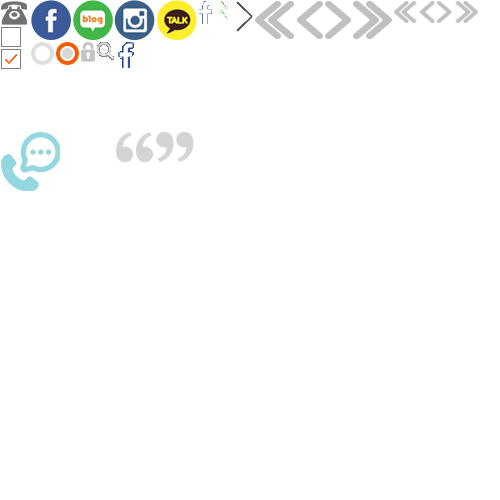
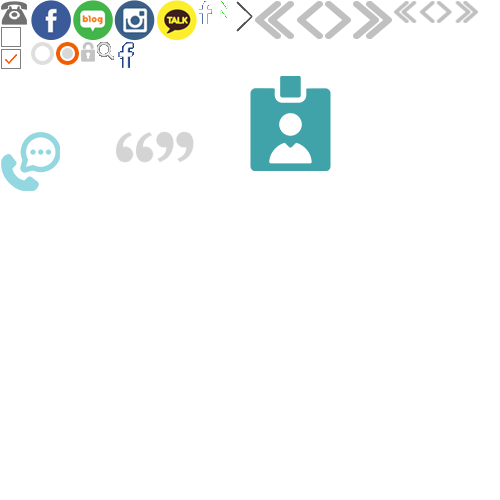
회원가입 완료

Changed region(s): [[0.48, 0.15, 0.66, 0.36]]

diff --git a/joinCom.html b/joinCom.html
@@ -1,0 +1,127 @@
+<!DOCTYPE html>
+<html lang="ko">
+<head>
+<title>SKINLUX</title>
+<meta charset="utf-8">
+<meta content="width=device-width, initial-scale=1.0, minimum-scale=1.0, maximum-scale=1.0, user-scalable=yes, target-densitydpi=medium-dpi" name="viewport">
+<meta http-equiv="X-UA-Compatible" content="IE=Edge">
+<link rel="stylesheet" type="text/css" href="css/default.css">
+<link rel="stylesheet" type="text/css" href="css/common.css">
+<link rel="stylesheet" type="text/css" href="css/contents.css">
+<script type="text/javascript" src="js/jquery-1.11.1.min.js"></script>
+<script type="text/javascript" src="js/jquery-ui.min.js"></script>
+<script type="text/javascript" src="js/ui.js"></script>
+<!--[if lt IE 9]>
+    <script src="js/html5shiv.min.js"></script>
+<![endif]-->
+</head>
+
+<body>
+	<ul class="skipNavi">
+		<li><a href="#container">본문 바로가기</a></li>
+		<li><a href="#gnb">메뉴 바로가기</a></li>
+	</ul>
+	<header id="header">
+		<div class="headTop">
+			<h1><a href="/">SKINLUX</a></h1>
+			<button type="button" class="btnMobNav"><span>메뉴 열기</span></button>
+		</div>
+		<div id="gnb">
+			<div class="headUtil">
+				<nav>
+					<a href="tel:025470175" class="phone">전화상담 <span>02)547.0175</span></a>
+					<span>
+						<a href="#" class="login">로그인</a>
+						<a href="#" class="logout">로그아웃</a>
+						<a href="#" class="join">회원가입</a>
+						<a href="#" class="info">병원소개</a>
+						<a href="#" class="map">오시는길</a>
+					</span>
+					<p class="tip">회원가입 후 로그인을 하시면<br>치료사례/후기를 보실 수 있습니다.</p>
+				</nav>
+			</div>
+			<nav class="gnbMenu">
+				<ul>
+					<li><a href="#">SKIN 클리닉</a>
+						<div class="depth2 type2">
+							<ul>
+								<li><a href="#">지루성 피부염</a></li>
+								<li><a href="#">스테로이드 부작용</a></li>
+								<li><a href="#">여드름(안면/등/가슴)</a></li>
+								<li><a href="#">아토피/건선</a></li>
+								<li><a href="#">안면홍조/레이저 부작용</a></li>
+								<li><a href="#">매선</a></li>
+							</ul>
+						</div>
+					</li>
+					<li><a href="#">DIET 클리닉</a>
+						<div class="depth2">
+							<ul>
+								<li><a href="#">비만</a></li>
+								<li><a href="#">다이어트약</a></li>
+							</ul>
+						</div>
+					</li>
+					<li><a href="#" class="non2depth">치료사례/후기</a></li>
+					<li><a href="#" class="non2depth">상담 및 예약</a></li>
+					<li><a href="#">병원소식</a>
+						<div class="depth2">
+							<ul>
+								<li><a href="#">공지사항</a></li>
+								<li><a href="#">스타방문</a></li>
+								<li><a href="#">언론보도</a></li>
+								<li><a href="#">이벤트 </a></li>
+							</ul>
+						</div>
+					</li>
+				</ul>
+			</nav>
+			<button type="button" class="btnClose"><span>메뉴 닫기</span></button>
+		</div>
+	</header>
+	<div class="location">
+		<p><a href="/">Home</a> &gt; <span>회원가입</span></p>
+	</div>
+
+	<div id="container">
+		<section class="content">
+			<h1 class="pageTitle2">회원가입 완료</h1>
+			<div class="joinCom">
+                <p class="txt1">홈페이지 <strong>회원가입이 완료</strong>되었습니다.</p>
+                <p class="txt2">로그인하시면 더 많은 정보와 치료후기를 확인하실 수 있습니다.</p>
+                <div class="btn"><button type="button" class="btnType1">로그인</button></div>
+			</div>
+		</section>
+	</div>
+
+	<footer id="footer">
+		<section>
+			<h1>SKINLUX</h1>
+			<nav>
+				<span class="privacy">
+					<a href="#">이용약관</a>
+					<a href="#">개인정보 취급방침</a>
+				</span>
+				<span class="sns">
+					<a href="#" class="facebook">페이스북</a>
+					<a href="#" class="naver">네이버블로그</a>
+					<a href="#" class="insta">인스타그램</a>
+					<a href="#" class="kakao">카카오톡</a>
+				</span>
+			</nav>
+			<p class="hospInfo">
+				<span>업체명 : 스킨룩스 한의원</span>
+				<span>대표이사 : 선우유정</span>
+				<span>서울시 강남구 논현로 826(신사동, 2층)</span>
+				<span>02-542-0175</span>
+				<span>fax : 02-547-6275</span>
+				<span>사업자 등록번호 : 4565121545212</span>
+				<span>통신판매업신고 : 41512124451</span>
+				<span>개인정보관리 책임자 : 선우유정 sdfsdf@sdfsdf.com</span>
+				<small>(c) SKINLUX all right reserved.</small>
+			</p>
+		</section>
+	</footer>
+
+</body>
+</html>

diff --git a/clinic.html b/clinic.html
@@ -234,9 +234,9 @@
                     <img src="images/img_clinic4_2_mo.jpg" alt="" class="mo">
                 </section>
                 <section id="clinic5">
-                    <h1 class="hidden">스테로이드 부작용</h1>
-                    <img src="images/img_clinic1_1.jpg" alt="" class="pc">
-                    <img src="images/img_clinic1_1_mo.jpg" alt="" class="mo">
+                    <h1 class="hidden">안면홍조/레이저부작용</h1>
+                    <img src="images/img_clinic5_1.jpg" alt="" class="pc">
+                    <img src="images/img_clinic5_1_mo.jpg" alt="" class="mo">
                     <ul class="clinicSlide">
                         <li>
                             <a href="#">
@@ -263,41 +263,13 @@
                             </a>
                         </li>
                     </ul>
-                    <img src="images/img_clinic1_2.jpg" alt="" class="pc">
-                    <img src="images/img_clinic1_2_mo.jpg" alt="" class="mo">
+                    <img src="images/img_clinic5_2.jpg" alt="" class="pc">
+                    <img src="images/img_clinic5_2_mo.jpg" alt="" class="mo">
                 </section>
                 <section id="clinic6">
-                    <h1 class="hidden">스테로이드 부작용</h1>
-                    <img src="images/img_clinic1_1.jpg" alt="" class="pc">
-                    <img src="images/img_clinic1_1_mo.jpg" alt="" class="mo">
-                    <ul class="clinicSlide">
-                        <li>
-                            <a href="#">
-                                <figure>
-                                    <img src="images/img_sample.jpg" alt="치료전사진" />
-                                    <figcaption>치료전</figcaption>
-                                </figure>
-                                <figure>
-                                    <img src="images/img_sample2.jpg" alt="치료후사진" />
-                                    <figcaption>치료후</figcaption>
-                                </figure>
-                            </a>
-                        </li>
-                        <li>
-                            <a href="#">
-                                <figure>
-                                    <img src="images/img_sample.jpg" alt="치료전사진" />
-                                    <figcaption>치료전</figcaption>
-                                </figure>
-                                <figure>
-                                    <img src="images/img_sample2.jpg" alt="치료후사진" />
-                                    <figcaption>치료후</figcaption>
-                                </figure>
-                            </a>
-                        </li>
-                    </ul>
-                    <img src="images/img_clinic1_2.jpg" alt="" class="pc">
-                    <img src="images/img_clinic1_2_mo.jpg" alt="" class="mo">
+                    <h1 class="hidden">매선/실리프팅<h1>
+                    <img src="images/img_clinic6_1.jpg" alt="" class="pc">
+                    <img src="images/img_clinic6_1_mo.jpg" alt="" class="mo">
                 </section>
 	        </div>
 	        <script>

diff --git a/css/contents.css b/css/contents.css
@@ -450,6 +450,14 @@
 .joinField .btnWrap span {float:left;width:50%;margin:0;}
 .joinField .btnWrap span a {display:block;margin:10px 5px 0;}
 
+.joinCom {padding:0 0 55px;border:8px solid #f0f0f0;text-align:center;}
+.joinCom .txt1 {margin:50px 0 10px;font:40px/1 NanumM;}
+.joinCom .txt1 strong {font-weight:400;color:#1b9ca1;}
+.joinCom .txt1:before {content:"";display:block;margin:0 auto 25px;width:83px;height:97px;background:url(../images/icon_pack.png) no-repeat -250px -75px;}
+.joinCom .txt2 {font-size:22px;color:#7c7c7c;}
+.joinCom .btn {margin:45px 0 0;}
+.joinCom .btn .btnType1 {width:300px;font-size:16px;}
+
 .idpwFindWrap .tabContent > div {float:left;width:505px;padding-left:35px;}
 .idpwFindWrap .tabContent > div + div {float:right;}
 .idpwFindWrap .radio {margin:0 0 5px -30px;color:#323232;font-size:24px;line-height:1;}
@@ -757,6 +765,13 @@
 	.idpwFindWrap fieldset .row .phone select {height:3rem;}
 	.idpwFindWrap fieldset .row .btnType2 {line-height:2.6rem;font-size:1.2rem;}
 	.idpwFindWrap .btnWrap .btnType1 {width:29.8rem;font-size:2.2rem;}
+
+    .joinCom {padding:0 0 5.5rem;border-width:.8rem;}
+    .joinCom .txt1 {margin:5rem 0 1rem;font-size:3rem;}
+    .joinCom .txt1:before {margin:0 auto 2.5rem;width:8.3rem;height:9.7rem;background-position:-25rem -7.5rem;}
+    .joinCom .txt2 {font-size:1.6rem;}
+    .joinCom .btn {margin:4.5rem 0 0;}
+    .joinCom .btn .btnType1 {width:30rem;font-size:1.6rem;}
 }
 
 @media all and (max-width:560px) {
@@ -800,6 +815,13 @@
 	.joinField .btnWrap {display:block;}
 	.joinField .btnWrap > div a {padding-left:1.7rem;}
 	.joinField .btnType2 {line-height:3.8rem;}
+
+    .joinCom {padding:0 0 5.5rem;border-width:.4rem;}
+    .joinCom .txt1 {margin:2.5rem 0 1rem;font-size:1.6rem;}
+    .joinCom .txt1:before {margin:0 auto 2rem;width:4.1rem;height:4.8rem;background-position:-12.5rem -3.8rem;background-size:25rem;}
+    .joinCom .txt2 {font-size:1.1rem;}
+    .joinCom .btn {margin:2.5rem 0 0;}
+    .joinCom .btn .btnType1 {width:15rem;font-size:1.4rem;}
 
     .mapTit {padding:2rem 0 0;border-width:.2rem;font-size:2rem;}
 
